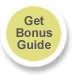
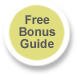
Changed bonus sticker to new image

diff --git a/wp-content/themes/taniaellis/style/compiled/misc.css b/wp-content/themes/taniaellis/style/compiled/misc.css
@@ -1075,7 +1075,7 @@
 }
 /* line 870, ../sass/misc.scss */
 #page .box #bonus-sticker {
-  left: 25px;
+  left: 22px;
   position: absolute;
   bottom: -35px;
 }

diff --git a/wp-content/themes/taniaellis/style/sass/misc.scss b/wp-content/themes/taniaellis/style/sass/misc.scss
@@ -868,7 +868,7 @@
 		}
 
 		#bonus-sticker {
-			left: 25px;
+			left: 22px;
 			position: absolute;
 			bottom: -35px;
 			// left: 70px;
